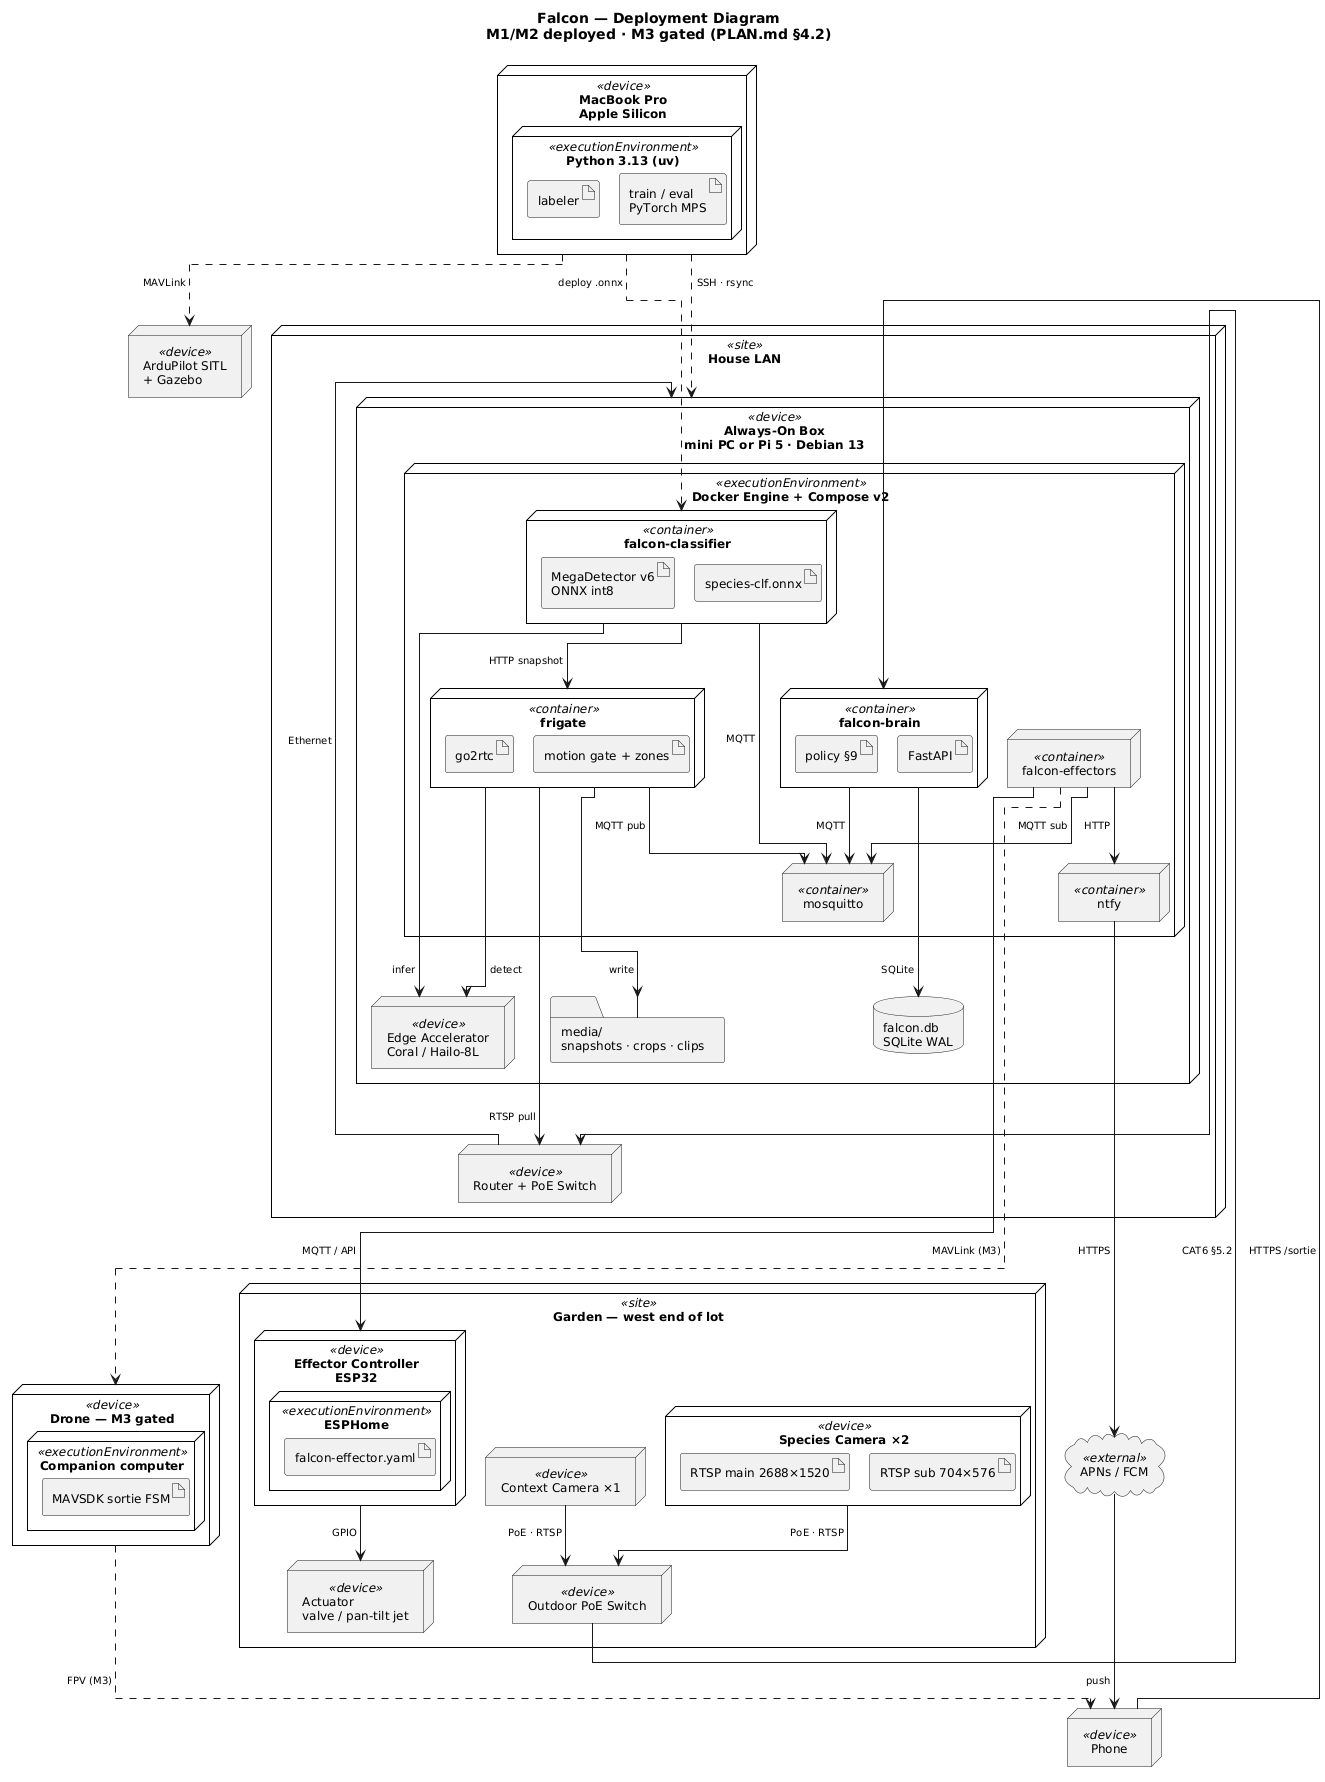
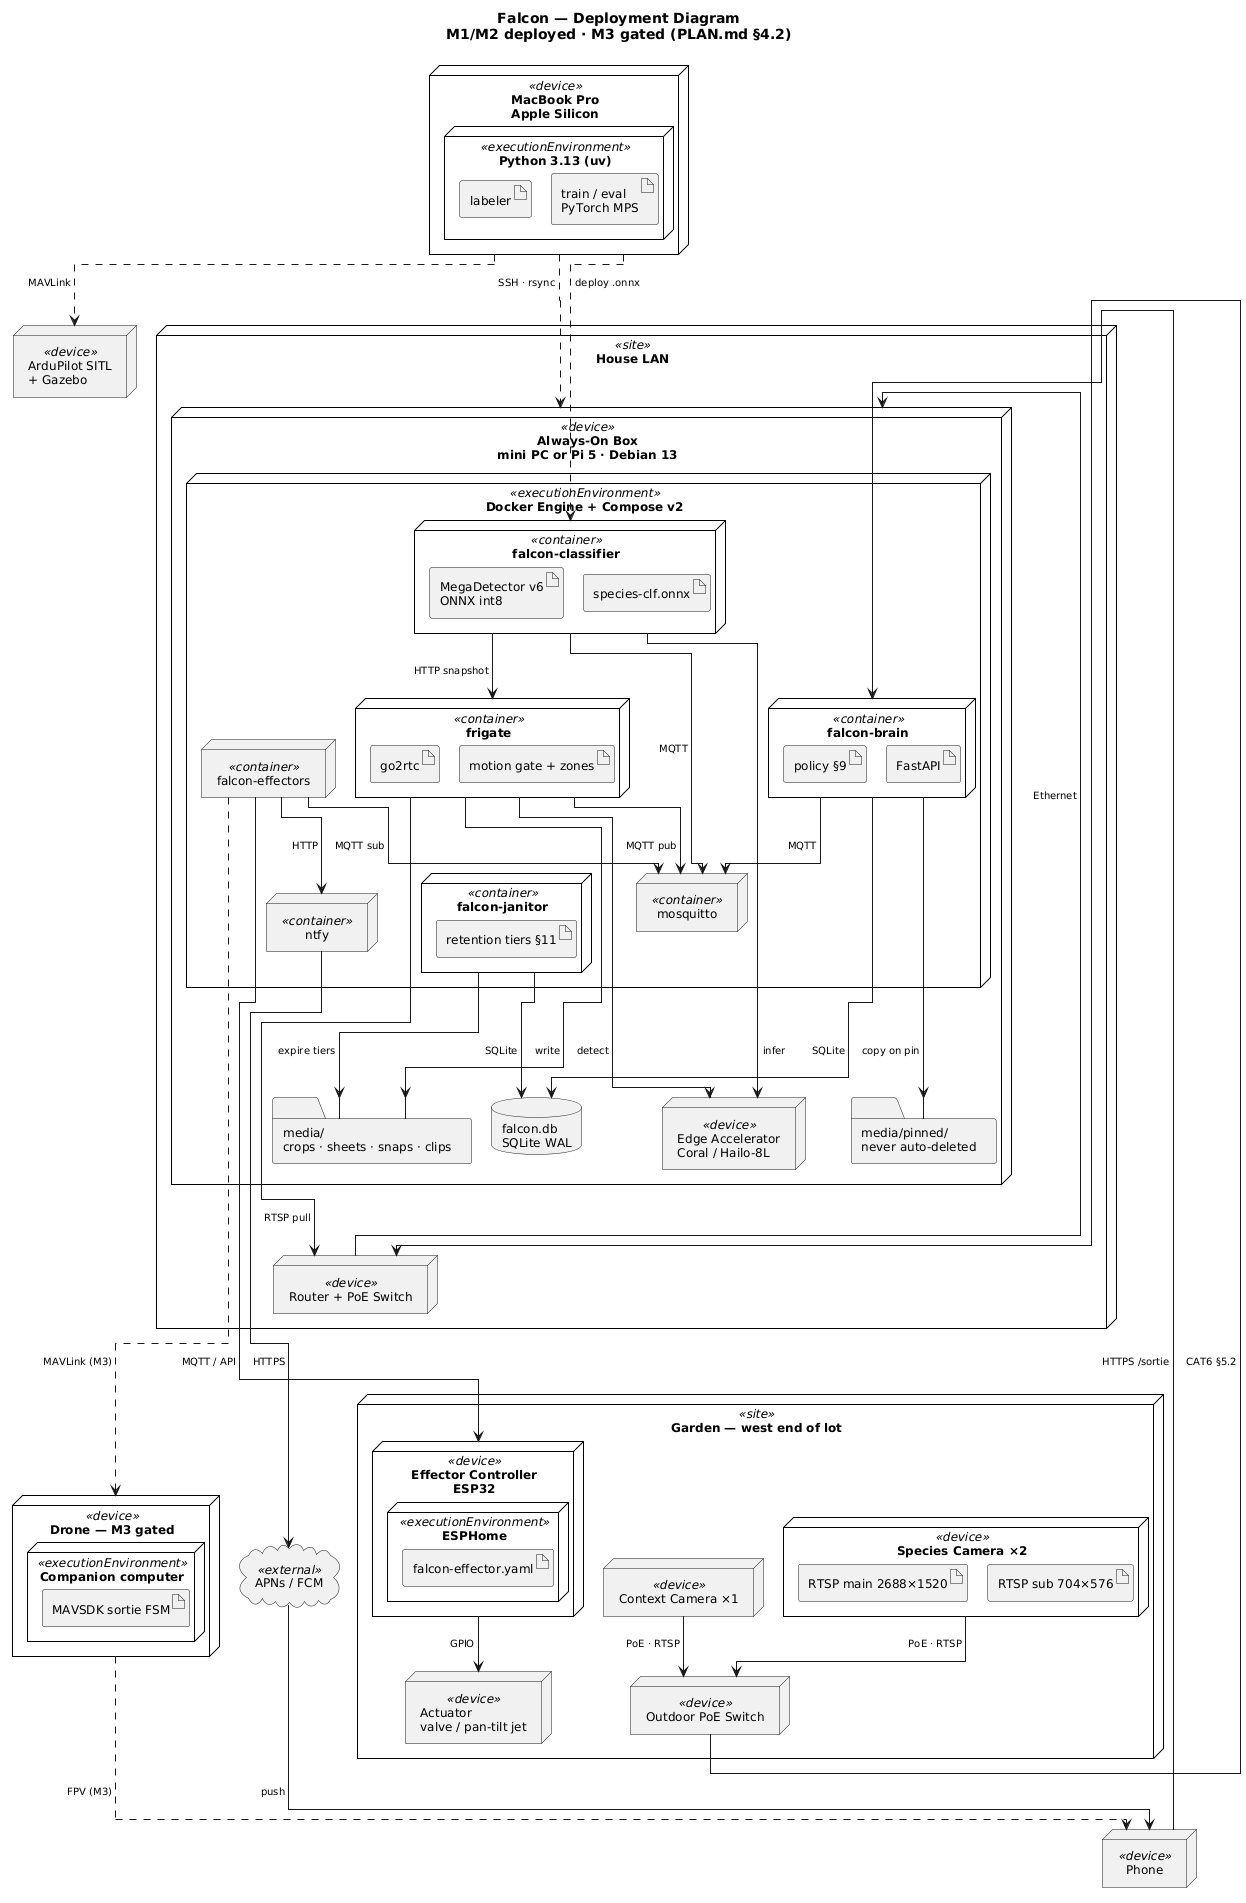
Add a tiered data retention policy and enrich the event record
Optimizes for short video life and permanent detailed records. The
governing ratio is that a 30s clip is roughly 750x the size of the crop
cut out of it while carrying nearly the same training information, so
crops and event rows are kept forever and clips expire in a week.

Introduces a contact sheet tier: nine frames sampled across an event and
tiled into one JPEG, at one percent of the clip's size, which preserves
the behavioral sequence for the cases where the video would otherwise be
pulled. Steady-state storage lands near 40 GB against 2.3 TB for naive
continuous recording, which drops the recommended disk from 2 TB to
500 GB.

Expands the event contract so the record genuinely substitutes for
video: the full bbox trajectory at detection rate, all class and
protected-class scores rather than top-1, model provenance hashes,
zone transitions, solar context, and the thresholds in effect when the
decision was made. Adds a daily gzipped NDJSON export so the history
stays greppable alongside SQL.

Pins events the policy acted on, protected-class detections near a
decision, and stage disagreements, and gives retention a single owner by
copying pinned media out of Frigate's lifecycle rather than running two
retention engines over the same files.

Claude-Session: https://claude.ai/code/session_01757DgkEqVuAnDU348Lh5di

diff --git a/docs/PLAN.md b/docs/PLAN.md
@@ -297,7 +297,7 @@ on MPS; the SpeciesNet bootstrap pass is offline, so CPU fallback is fine if
 its ops don't map cleanly.
 
 **Zero-spend start.** Develop the entire pipeline natively on the Mac right
-now against clips from the Nest Cam already on hand (§13.1) or any video file — no Docker, no hardware. Buy the
+now against clips from the Nest Cam already on hand (§14.1) or any video file — no Docker, no hardware. Buy the
 always-on box only when you're ready to run continuously. That defers all
 spend past the point where you know the pipeline works.
 
@@ -311,7 +311,9 @@ spend past the point where you know the pipeline works.
                zones, NVR,        SpeciesNet    escalation, ├─ audio
                snapshots)         / our own)    audit log)  └─ drone (tap-to-launch)
                                        │            │
-                                       └──► event store (SQLite + clips on disk)
+                                       └──► event store (SQLite + media on disk)
+                                                    ▲
+                                              janitor (§11 tiers)
                                                     │
                                               labeler UI → training set → fine-tune
 ```
@@ -386,25 +388,53 @@ the drone lands:
 ```json
 {
   "event_id": "uuid",
-  "ts": "2026-09-20T14:22:11.482Z",
+  "track_id": "t-9931",
   "camera": "bed_north",
-  "zone": ["tomatoes"],
+  "first_seen": "2026-09-20T14:22:11.482Z",
+  "last_seen":  "2026-09-20T14:22:15.704Z",
+  "dwell_s": 4.2,
+
   "species": "squirrel",
   "confidence": 0.91,
-  "bbox": [0.31, 0.44, 0.09, 0.14],
-  "world": { "bearing_deg": 118.0, "range_m": 6.2 },
-  "track_id": "t-9931",
+  "scores":    { "squirrel": 0.91, "chipmunk": 0.05, "rabbit": 0.02 },
   "protected": { "person": 0.00, "dog": 0.01, "cat": 0.11, "bird": 0.03 },
-  "decision": { "engage": false, "reason": "veto:cat" },
-  "dwell_s": 4.2,
-  "snapshot_uri": "file:///var/falcon/snap/…jpg",
-  "clip_uri": "file:///var/falcon/clip/…mp4"
+
+  "models": {
+    "stage1": "megadetector-v6c@sha256:1f3a…",
+    "stage2": "species-clf@v4:sha256:9b02…"
+  },
+
+  "zones": [{ "name": "tomatoes", "enter": 1.10, "exit": 3.90 }],
+  "track": [[0.31,0.44,0.09,0.14], [0.33,0.44,0.09,0.14], "…50 points @5Hz"],
+  "world": { "bearing_deg": 118.0, "range_m": 6.2 },
+
+  "context": { "sun_elev_deg": 31.2, "sun_az_deg": 244.0, "solar_phase": "pm" },
+
+  "decision": {
+    "engage": false,
+    "reason": "veto:cat",
+    "rule": "protected_veto",
+    "thresholds": { "engage": 0.80, "cat": 0.05 }
+  },
+  "effector": null,
+
+  "media": {
+    "crop_uri":    "file:///var/falcon/crop/…jpg",
+    "sheet_uri":   "file:///var/falcon/sheet/…jpg",
+    "snapshot_uri":"file:///var/falcon/snap/…jpg",
+    "clip_uri":    "file:///var/falcon/clip/…mp4",
+    "clip_expires":"2026-09-27T14:22:11Z"
+  },
+  "retention": { "tier": "standard", "pinned": false, "pin_reason": null }
 }
 ```
 
-`world` is populated by a per-camera homography (one calibration per camera,
-ground-plane assumption). It is unused in M1 and essential the moment an
-effector needs to aim.
+`track` is the field that earns the short clip retention (§11.4): the full
+bbox path at detection rate is ~1 KB and reconstructs speed, entry edge, and
+approach vector without any video. `models` records provenance so a later
+re-analysis knows which model version produced which label. `world` is
+populated by a per-camera homography (one calibration per camera, ground-plane
+assumption) — unused in M1, essential the moment an effector needs to aim.
 
 ## 9. Engagement policy — the never-target list drives the design
 
@@ -641,14 +671,115 @@ capture sessions (§9.6) mean deliberately recording your family. That is the
 consideration worth weighing, and it is a genuine one — the dollars are noise
 either way.
 
-## 11. Milestones
+## 11. Data retention
+
+Optimized for: **short video life, permanent detailed records.**
+
+### 11.1 The key ratio
+
+A 30 s clip of a squirrel at 4 MP is ~15 MB. The 224×224 crop cut out of it is
+~20 KB. For *training* purposes those contain nearly the same information —
+the clip is ~750× larger and adds only motion context and human-reviewable
+behavior.
+
+So the design principle is: **keep the crop and the record forever; keep the
+clip only as long as you're actively reviewing it.**
+
+### 11.2 Never record continuously
+
+Continuous recording is ~75 GB/day (§13) for no benefit — nothing happens in
+99% of those frames. Record detection segments only. In Frigate that means
+setting continuous retention to 0–1 days and relying on event-based retention
+(`record.alerts.retain.days` / `record.detections.retain.days`;
+verify the key names against 0.18, config changed across 0.17).
+
+### 11.3 Tiers
+
+Assuming ~200 detection events/day across three cameras in the daylight window:
+
+| Tier | Size/event | Retention | Steady state |
+|---|---|---|---|
+| **Event record** (SQLite row + trajectory) | ~3 KB | **forever** | 219 MB/yr |
+| **Crop** (224², best + 1 alt) | ~40 KB | **forever**, deduped (§10.3) | 2.9 GB/yr |
+| **Contact sheet** (9 sampled frames, one montage JPEG) | ~150 KB | **1 year** | 11 GB |
+| **Full-res snapshot** | ~800 KB | **30 days** | 4.8 GB |
+| **Clip** (30 s H.265) | ~15 MB | **7 days** | 21 GB |
+| **NDJSON daily export** (gzipped) | — | **forever** | 55 MB/yr |
+
+**Total steady state: ~40 GB**, against ~2.3 TB for naive continuous recording
+at 30-day retention. Roughly a 60× reduction, and it changes what you need to
+buy (§13).
+
+**The contact sheet is the trick.** Nine frames sampled across the event,
+tiled into one JPEG, is 1% of the clip's size and preserves the behavioral
+sequence — approach, pause, flee. It answers "what actually happened" for
+almost every event you'd otherwise pull the video for.
+
+### 11.4 What makes the record detailed enough to replace video
+
+This is the part that earns the short clip retention. Each event row carries:
+
+- **Identity** — `event_id`, `track_id`, camera, `first_seen`, `last_seen`,
+  `dwell_s`
+- **Full classification** — not just top-1: every class score, plus every
+  protected-class score (§9.4)
+- **Model provenance** — the version/hash of each model that produced the
+  labels, so a later re-analysis knows what labeled what
+- **Trajectory** — the *whole* bbox track at detection rate, not one box. 50
+  points × 4 floats ≈ 1 KB, and it reconstructs path, speed, entry edge, and
+  approach vector. This is what substitutes for watching the clip.
+- **Zones** — entered/exited with timestamps; dwell per zone
+- **World frame** — `bearing_deg`, `range_m` from the camera homography (§7)
+- **Decision** — engage/no-engage, the reason, which rule fired, and the
+  threshold values in effect at the time
+- **Effector outcome** — what fired, when, for how long
+- **Context** — sun elevation and azimuth, position in the solar window;
+  optionally temperature and precipitation, which strongly predict activity
+
+**Two log streams, don't conflate them.** Event records are structured,
+permanent, and queryable. *Application* logs (service stdout) are transient —
+rotate at 7 days / 100 MB and let them go.
+
+For grep-ability alongside SQL, write a **daily NDJSON export, gzipped**. 200
+events × 3 KB compresses to ~150 KB/day — 55 MB/year, keep it forever. You get
+`zgrep` over the full history and `falcon.db` for real queries, from one
+source of truth.
+
+### 11.5 Pinning — retention's exceptions
+
+Some events must ignore the tiers. **Pinned events never auto-delete** (clip
+retained 90 days, everything else forever):
+
+1. **Anything the policy acted on** — an effector fired, or shadow mode said it
+   would have (§9.7). This is the audit record; if the system ever soaks
+   something it shouldn't, this is the evidence.
+2. **Any protected-class detection near a decision** (§9.1) — same reason.
+3. **Stage disagreements** — MegaDetector vs. species model, or the VLM
+   adjudicator vs. the classifier (§10.1). These are the training-valuable
+   events.
+4. **Manually flagged** in the labeler.
+
+Pins are rare — a handful a day — so they cost little.
+
+### 11.6 Don't fight Frigate's retention engine
+
+Frigate manages its own media lifecycle and will happily delete a clip the
+policy wanted pinned. So: give Frigate a **short, generous-enough** window
+(~10 days), and have `falcon-brain` **copy pinned media out of Frigate's
+managed storage** into `media/pinned/` on write.
+
+A `falcon-janitor` job then enforces §11.3 over Falcon's own directories only.
+Two systems, two storage areas, one owner each — rather than two retention
+engines arguing over the same files.
+
+## 12. Milestones
 
 ### M1 — Detect, notify, log  ← current
 Cameras mounted, Frigate ingesting, two-stage classifier running, every event
 stored with crop + clip, push notification with snapshot, labeler UI, first
 fine-tune, and staged capture sessions for the protected classes (§9.6).
 **No actuators at all.** Bootstrap the dataset offline from the existing Nest
-Cam (§13.1) before buying anything.
+Cam (§14.1) before buying anything.
 
 Deliverable that matters: a **critter clock** — which species, which beds,
 what time of day, how often. You cannot tune a deterrent you haven't measured,
@@ -689,7 +820,7 @@ Randomized approach vectors, variable delays, audio profile rotation.
 Measure raid frequency over 30-day windows against M1's baseline. This is the
 only way to know whether any of it worked.
 
-## 12. Repo layout (proposed)
+## 13. Repo layout (proposed)
 
 ```
 falcon/
@@ -709,30 +840,26 @@ falcon/
 └─ deploy/         compose.yaml, .env.example
 ```
 
-## 13. Hardware (M1 only)
+## 14. Hardware (M1 only)
 
 - 2–3 PoE cameras with RTSP and a usable sub-stream — see the shortlist in
-  §13.2. **Buy for lens, not megapixels** (§5), and start with one.
+  §14.2. **Buy for lens, not megapixels** (§5), and start with one.
 - PoE switch at the house, plus a small outdoor-rated PoE switch at the yard
   end, and one 60–90 ft direct-burial CAT6 run in conduit between them (§5.2)
   — unless there is already power at a rear garage/shed, in which case the
   existing backyard WiFi is adequate and this line drops out.
 - An always-on box (§6): used mini PC + Coral, or Pi 5 + AI HAT+. $120–250.
-- **Storage on that box — size it deliberately.** Three 4 MP H.265 cameras at
-  ~4 Mbps are ~1.8 GB/hour each. Continuous daylight recording in June
-  (14 h) is **~75 GB/day → ~2.3 TB at 30-day retention**; recording only
-  motion segments (~3 h/day across three cameras) is ~16 GB/day → ~480 GB.
-  Budget a 2 TB drive, or set Frigate's retention explicitly and record
-  segments rather than continuously. **Clips stay on the box; only crops go to
-  the Mac** — a 50k-crop dataset is ~5 GB, but footage would eat the 1 TB SSD
-  in weeks.
+- **Storage: a 500 GB SSD is plenty** under the retention policy in §11
+  (~40 GB steady state). Naive continuous recording would have needed ~2.3 TB
+  for the same period — the policy, not the disk, is what solves this. Clips
+  stay on the box; only crops go to the Mac.
 - No IR illuminators — daylight only (§8).
 - The MacBook, for training only. No spend.
 - Total: roughly $320–650, and none of it needed to start (§6).
 
 No drone spend until M3, and none at all until the software flies in SITL.
 
-### 13.1 Equipment on hand: Nest Cam (indoor, wired, 2nd gen)
+### 14.1 Equipment on hand: Nest Cam (indoor, wired, 2nd gen)
 
 **Not usable in the built system**, for two independent reasons.
 
@@ -781,7 +908,7 @@ Note: without a Nest Aware subscription, wired cameras retain roughly 3 hours
 of event history, so collect the same day or subscribe for a month while
 building the dataset.
 
-### 13.2 Camera shortlist
+### 14.2 Camera shortlist
 
 Three buying rules first, because they eliminate most of the catalog:
 
@@ -827,7 +954,7 @@ Prices and model availability drift; verify current listings before ordering.
 EmpireTech is the US-market Dahua channel, and how you get genuine Dahua
 firmware stateside.
 
-## 14. Open questions
+## 15. Open questions
 
 Site-specific ones are in §4.3. Still open and affecting the build: the time
 budget. Language and deploy choices are now recorded as defaults in
@@ -835,6 +962,6 @@ budget. Language and deploy choices are now recorded as defaults in
 box — rather than left open; easy to revisit, since the MQTT contract is the
 only thing they'd have to honor.
 
-Resolved: tap-to-launch posture (§3), ground-effector-first (§11), M1 scope
-(§11), daylight-only (§8), compute topology (§6),
+Resolved: tap-to-launch posture (§3), ground-effector-first (§12), M1 scope
+(§12), daylight-only (§8), compute topology (§6),
 never-target list (§9), backyard WiFi present (§5.2).

diff --git a/docs/DEPLOYMENT.md b/docs/DEPLOYMENT.md
@@ -36,9 +36,11 @@ Jersey wildlife question in [PLAN.md §4.2](PLAN.md).
 | `falcon-classifier` | container | MegaDetector v6 → species model. Sidecar, not a Frigate plugin (see below). |
 | `falcon-brain` | container | Engagement policy (§9), audit log, HTTP API. |
 | `falcon-effectors` | container | notify / sprinkler / audio / drone behind one interface. |
+| `falcon-janitor` | container | Enforces the retention tiers (PLAN.md §11) over Falcon's own media directories. |
 | `ntfy` | container | Self-hosted push with action buttons. |
 | `falcon.db` | artifact | SQLite in WAL mode: events, decisions, audit trail. |
-| `media/` | artifact | Snapshots, crops, clips on disk. |
+| `media/` | artifact | Crops, contact sheets, snapshots, clips — tiered retention (PLAN.md §11.3). |
+| `media/pinned/` | artifact | Copied out of Frigate's managed storage on pin; never auto-deleted (§11.5–11.6). |
 
 ### Off-LAN
 
@@ -64,6 +66,8 @@ Jersey wildlife question in [PLAN.md §4.2](PLAN.md).
 | `falcon-classifier` | Edge accelerator | USB / PCIe | MegaDetector + species model |
 | `falcon-brain` | `mosquitto` | MQTT 1883 | sub `falcon/detections`, pub `falcon/actions` |
 | `falcon-brain` | `falcon.db` | SQLite | Events, decisions, audit |
+| `falcon-brain` | `media/pinned/` | file I/O | Copies pinned media out of Frigate's lifecycle (§11.6) |
+| `falcon-janitor` | `media/`, `falcon.db` | file I/O, SQLite | Expires tiers; skips pinned events |
 | `falcon-effectors` | `mosquitto` | MQTT 1883 | sub `falcon/actions` |
 | `falcon-effectors` | ESP32 | MQTT 1883 or ESPHome native API 6053 | Valve/servo commands |
 | ESP32 | Actuator | GPIO | Relay, servo PWM |
@@ -83,6 +87,13 @@ never touches NVR config; the classifier needs the *full-resolution* snapshot
 rather than the detect sub-stream Frigate's own pipeline runs on (§5); and
 swapping or A/B-ing models is a container restart. Revisit if Frigate's native
 path matures enough to carry the two-stage pipeline.
+
+**Retention is owned in one place.** Frigate manages its own media lifecycle
+and would happily delete a clip the policy wanted pinned. So Frigate gets a
+short window (~10 days), `falcon-brain` copies pinned media *out* of that
+storage on write, and `falcon-janitor` enforces the tiers over Falcon's
+directories only. Two storage areas, one owner each — rather than two
+retention engines arguing over the same files.
 
 **MQTT is the seam.** Every service meets on the broker, so effectors are
 genuinely pluggable — `DroneEffector` subscribes to the same `falcon/actions`

diff --git a/docs/TECH_STACK.md b/docs/TECH_STACK.md
@@ -69,6 +69,7 @@ Avoid 3.15 until it has shipped and the wheels have caught up.
 | HTMX | 2.x | ~ | Labeler UI; no JS build step |
 | uv | current | ~ | Packaging and lockfile |
 | Ruff + mypy | current | ~ | Lint, types |
+| APScheduler (or systemd timer) | current | ~ | `falcon-janitor` retention sweeps (PLAN.md §11) |
 
 ## Development machine
 
